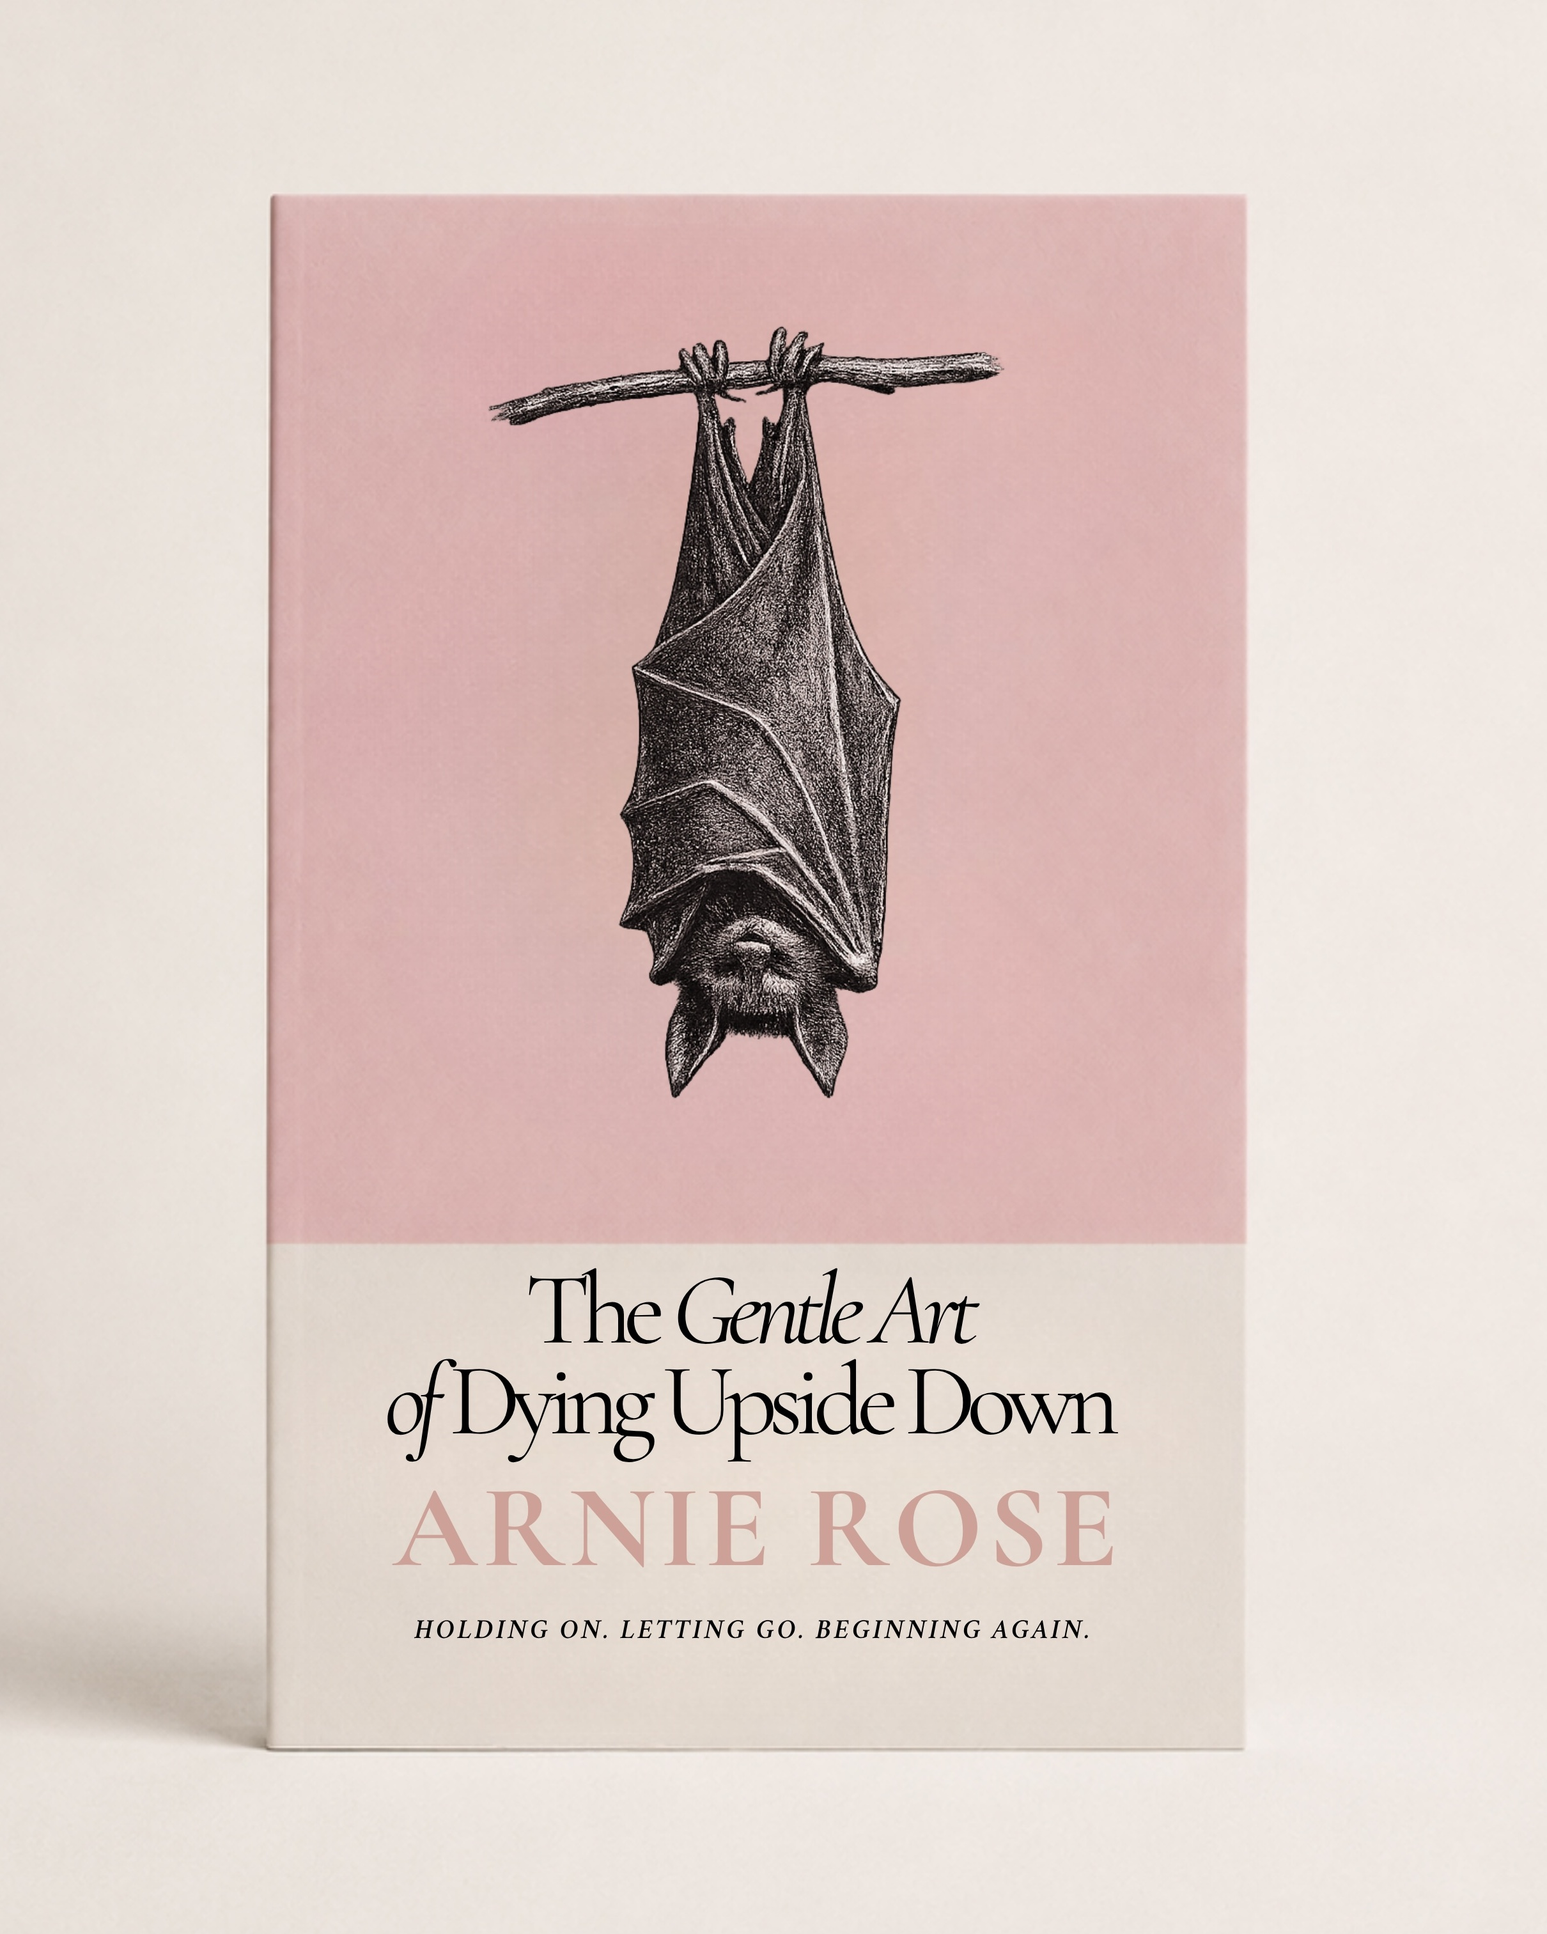
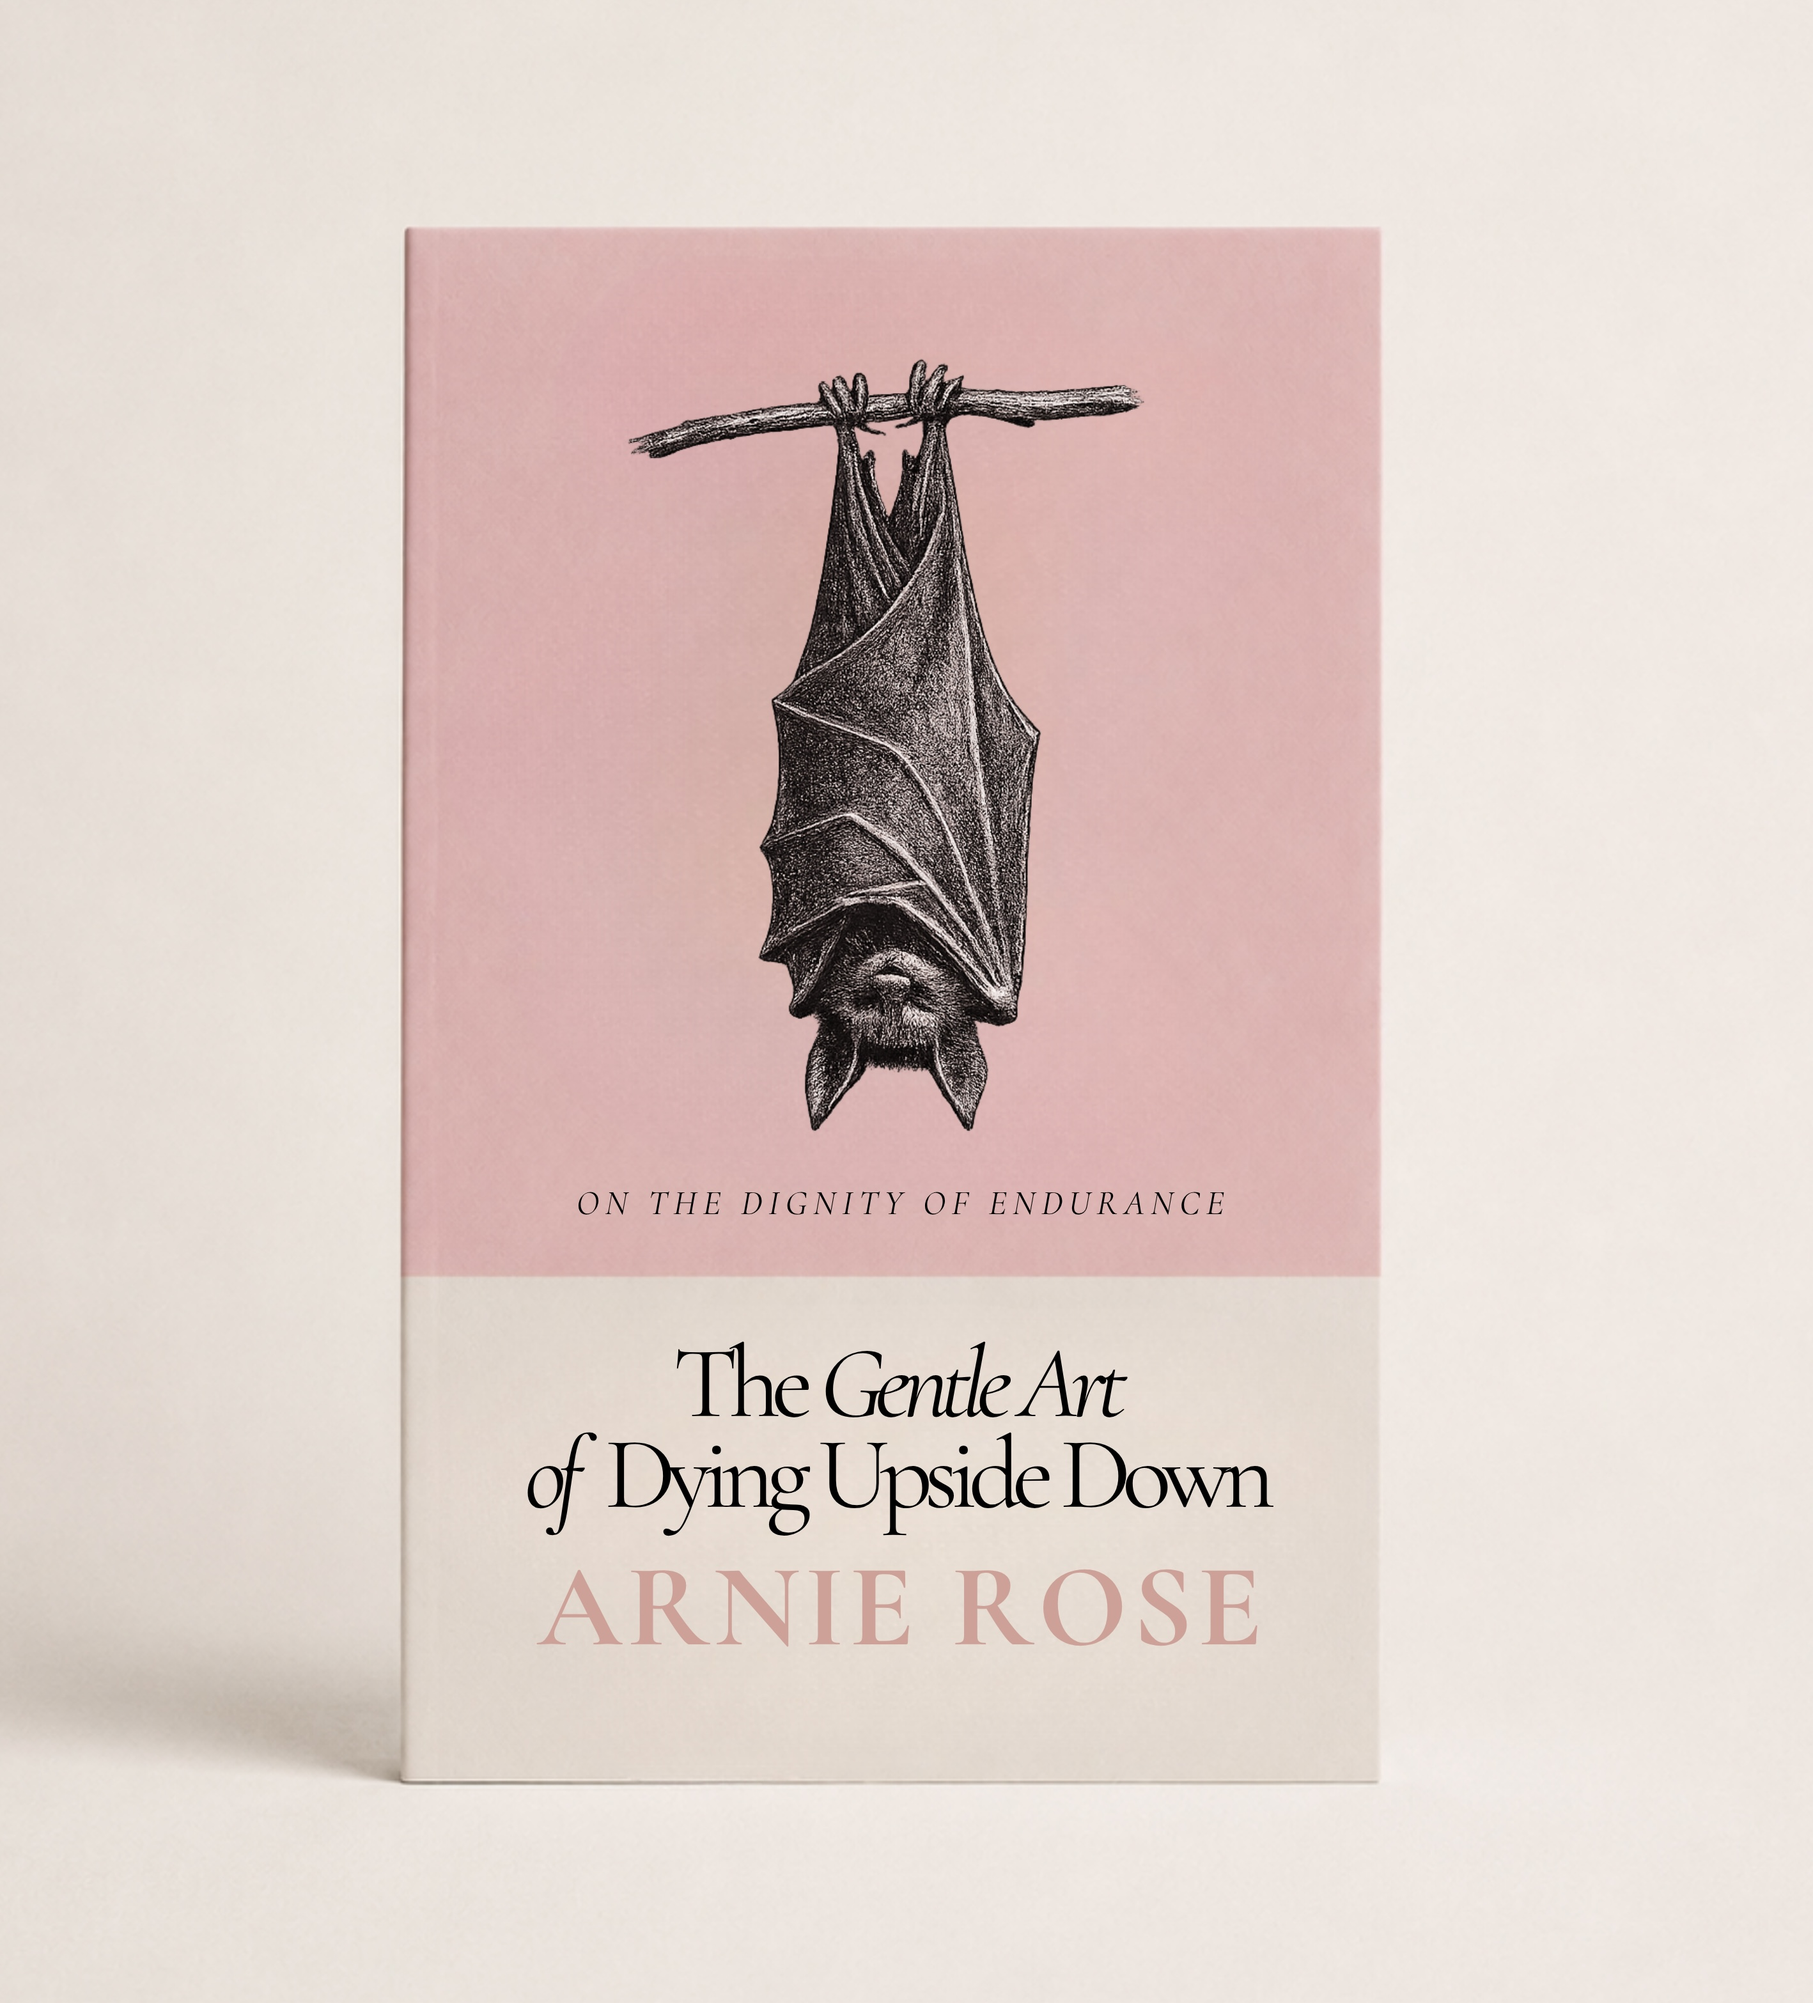
Add files via upload

diff --git a/the-gentle-art-of-dying-upside-down.html b/the-gentle-art-of-dying-upside-down.html
@@ -4,11 +4,11 @@
 <meta charset="UTF-8">
 <meta name="viewport" content="width=device-width, initial-scale=1.0">
 <title>The Gentle Art of Dying Upside Down &middot; Arnie Rose</title>
-<meta name="description" content="The Gentle Art of Dying Upside Down is a quiet invitation to understand the endings that shape us and what it means to begin again.">
+<meta name="description" content="The Gentle Art of Dying Upside Down is a reflection on mortality, endurance, and the quiet rhythms that shape the lives we continue to inhabit.">
 <meta name="robots" content="index, follow">
 <link rel="canonical" href="https://arniefelicilda.com/the-gentle-art-of-dying-upside-down.html">
 <meta property="og:title" content="The Gentle Art of Dying Upside Down &middot; Arnie Rose">
-<meta property="og:description" content="The Gentle Art of Dying Upside Down is a quiet invitation to understand the endings that shape us and what it means to begin again.">
+<meta property="og:description" content="The Gentle Art of Dying Upside Down is a reflection on mortality, endurance, and the quiet rhythms that shape the lives we continue to inhabit.">
 <meta property="og:type" content="book">
 <meta property="og:url" content="https://arniefelicilda.com/the-gentle-art-of-dying-upside-down.html">
 <meta property="og:image" content="https://arniefelicilda.com/mockup-1-landscape.jpg">
@@ -212,8 +212,6 @@ footer{padding:70px 60px 36px;border-top:1px solid var(--faint)}
       <span class="hero-badge">New Release</span>
       <p class="hero-eyebrow">Book 7 &middot; Releasing August 15</p>
       <h1 class="hero-title">The Gentle Art<br>of Dying Upside Down</h1>
-      <p class="hero-subtitle">Holding On. Letting Go. Beginning Again.</p>
-      <p class="hero-desc">Life rarely changes all at once. Beginning again is rarely about starting over. It is about learning to live differently. The Gentle Art of Dying Upside Down is a quiet invitation to understand the endings that shape us.</p>
       <div class="hero-actions">
         <a href="the-letters.html" class="btn-fill">Join The Letters</a>
       </div>
@@ -234,10 +232,9 @@ footer{padding:70px 60px 36px;border-top:1px solid var(--faint)}
     </div>
     <div class="about-copy">
       <p class="section-label about-label">About the Book</p>
-      <p>You don't always lose a life all at once. What once felt like belonging begins to feel like endurance.</p>
-      <p>Sooner or later, every life asks:<br>How do we begin again?</p>
-      <p><em>The Gentle Art of Dying Upside Down</em> is for anyone standing at a place where something familiar has come to an end. When home feels different, a dream no longer fits, or the future you counted on quietly slips away, knowing where to go next is rarely easy.</p>
-      <p>This book is a quiet invitation to understand the endings that shape us. Not every ending is a loss. Many are the beginning of a different way of living. It invites us to see change not as something to fear or resist, but as part of becoming. Beginning again is not about leaving everything behind. It is about carrying forward what still belongs to you.</p>
+      <p>Some bats die still hanging. Their claws stay locked. Their wings remain folded. Their bodies hold the ceiling even after the heart stops.</p>
+      <p>This is not a tragedy, but the natural conclusion of a life lived fully in the posture it was built for. The grip happens when the bat stops trying. Rest and holding become the same act. At the heart of the book is a biological paradox: the difference between a grip that belongs and one that remains.</p>
+      <p><em>The Gentle Art of Dying Upside Down</em> asks what remains when we choose to live inside the grip.</p>
     </div>
   </div>
 </section>
@@ -246,9 +243,10 @@ footer{padding:70px 60px 36px;border-top:1px solid var(--faint)}
 <section class="section quotes-section">
   <p class="section-label">A Few Lines to Carry With You</p>
   <div class="quotes-grid">
-    <div class="quote-card"><p>&ldquo;For those who mistook endurance for belonging.&rdquo;</p></div>
-    <div class="quote-card"><p>&ldquo;At some point she stopped waiting for something to change and started watching what was already there.&rdquo;</p></div>
-    <div class="quote-card"><p>&ldquo;What if letting go was never an ending, but a return?&rdquo;</p></div>
+    <div class="quote-card"><p>&ldquo;Endurance is noble. And endurance is exhausting.&rdquo;</p></div>
+    <div class="quote-card"><p>&ldquo;What if the grip is a way of life?&rdquo;</p></div>
+    <div class="quote-card"><p>&ldquo;The darkness has texture.&rdquo;</p></div>
+    <div class="quote-card"><p>&ldquo;Silence is the texture of the cave, but it is also the framework of acceptance.&rdquo;</p></div>
   </div>
 </section>
 

diff --git a/index.html b/index.html
@@ -209,8 +209,8 @@ footer{background:var(--parchment);padding:70px 60px 32px;border-top:1px solid v
       <span class="hero-badge">New Release</span>
       <p class="hero-eyebrow">Book 7 &middot; Releasing August 15</p>
       <h1 class="hero-title">The Gentle Art of Dying Upside Down</h1>
-      <p class="hero-sub">Holding on. Letting go. Beginning again.</p>
-      <p class="hero-desc">Life rarely changes all at once. What happens when the life you planned is no longer the life you are living? The Gentle Art of Dying Upside Down is a quiet invitation to understand the endings that shape us and what it means to begin again.</p>
+      <p class="hero-sub">On the Dignity of Endurance</p>
+      <p class="hero-desc">Some lives change all at once. Others change so quietly they become the life we know. This is a meditation on mortality, endurance, and the unseen rhythms that shape us. The Gentle Art of Dying Upside Down asks what remains when we choose to live inside the grip.</p>
       <a href="the-gentle-art-of-dying-upside-down.html" class="btn-fill">Learn More</a>
     </div>
     <div class="hero-cover">
